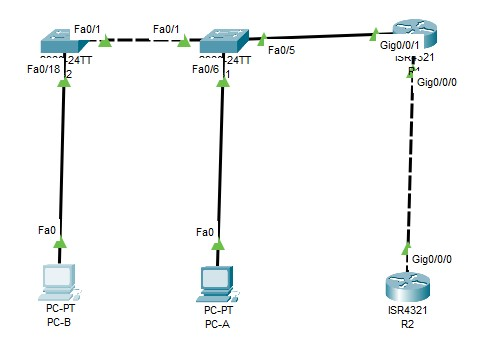
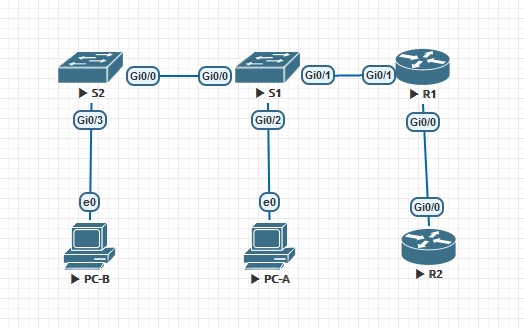
1

Changed region(s): [[0.0305, 0.0305, 0.9451, 0.9146]]

diff --git a/labs_otus/lab_29/lab29.md b/labs_otus/lab_29/lab29.md
@@ -7,9 +7,9 @@
 
 |Устройство|Интерфейс|IP адрес     |Маска подсети  |
 |------|-----------|---------------|---------------|
-|R1    |G0/0/0      |209.165.200.230|255.255.255.248|
-|      |G0/0/1      |192.168.1.1    |255.255.255.0  |
-|R2    |G0/0/0      |209.165.200.225|255.255.255.248|
+|R1    |Gi0/0      |209.165.200.230|255.255.255.248|
+|      |Gi0/1      |192.168.1.1    |255.255.255.0  |
+|R2    |Gi0/0      |209.165.200.225|255.255.255.248|
 |      |lo1        |209.165.200.1  |255.255.255.0  |
 | S1   |VLAN 20    |192.168.1.11   |255.255.255.0  |
 | S2   |VLAN 20    |192.168.1.12   |255.255.255.0  |
@@ -30,7 +30,7 @@ n
 **R1**
 R1(config)#ip route 0.0.0.0 0.0.0.0 209.165.200.225
 
-R1(config)#interface g0/0/1
+R1(config)#interface gi0/1
 
 
 R1(config-if)#ip address 192.168.1.1 255.255.255.0
@@ -48,7 +48,7 @@ R1(config-if)#no shutdown
 **R2**
 
 
-R2(config)#interface g0/0/0
+R2(config)#interface gi0/0
 
 R2(config-if)#ip address 209.165.200.225 255.255.255.248
 
@@ -91,14 +91,14 @@ R1(config)#ip nat pool PUBLIC_ACCESS 209.165.200.226 209.165.200.228 netmask 255
 
 R1(config)#ip nat inside source list 1 pool PUBLIC_ACCESS
 
-R1(config)#interface g0/0/1
+R1(config)#interface gi0/1
 
 R1(config-if)#ip nat inside
 
 
 R1(config-if)#exit
 
-R1(config)#interface g0/0/0
+R1(config)#interface gi0/0
 
 R1(config-if)#ip nat outside
 
@@ -159,6 +159,7 @@ R1(config)#no ip nat inside source list 1 pool PUBLIC_ACCESS
 
 
 R1#clear ip nat translation *
+
 R1#clear ip nat statistics
 
 **Шаг 4. На R1 удалите команды преобразования nat pool.**
@@ -167,9 +168,8 @@ R1#conf t
 
 
 R1(config)#no ip nat inside source list 1 pool PUBLIC_ACCESS overload
+
 R1(config)#no ip nat pool PUBLIC_ACCESS
-
-
 
 R1(config)#ip nat inside source list 1 interface gi0/0 overload
 
@@ -184,6 +184,8 @@ S2#ping 209.165.200.1 repeat 999
 **Часть 4. Настройка и проверка статического NAT для IPv4.**
 
 R1#clear ip nat translation *
+
+
 R1#clear ip nat statistics
 
 
